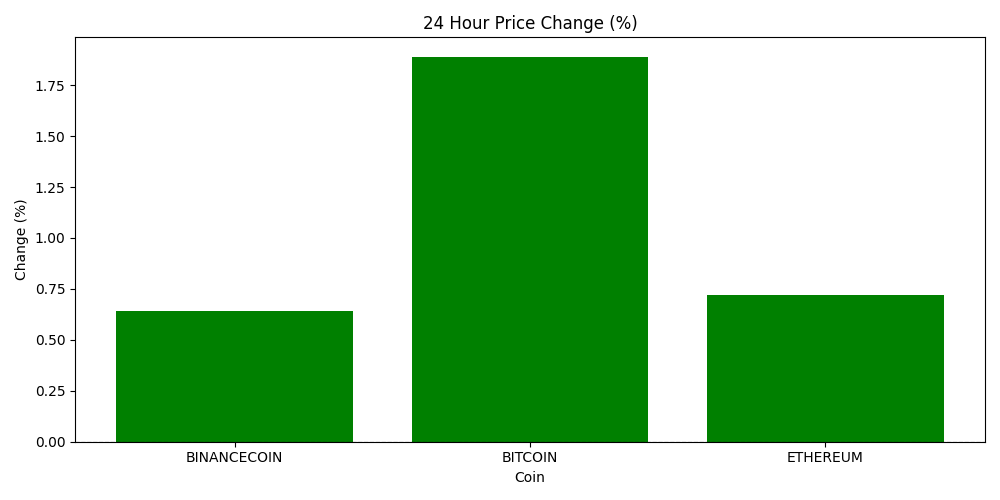
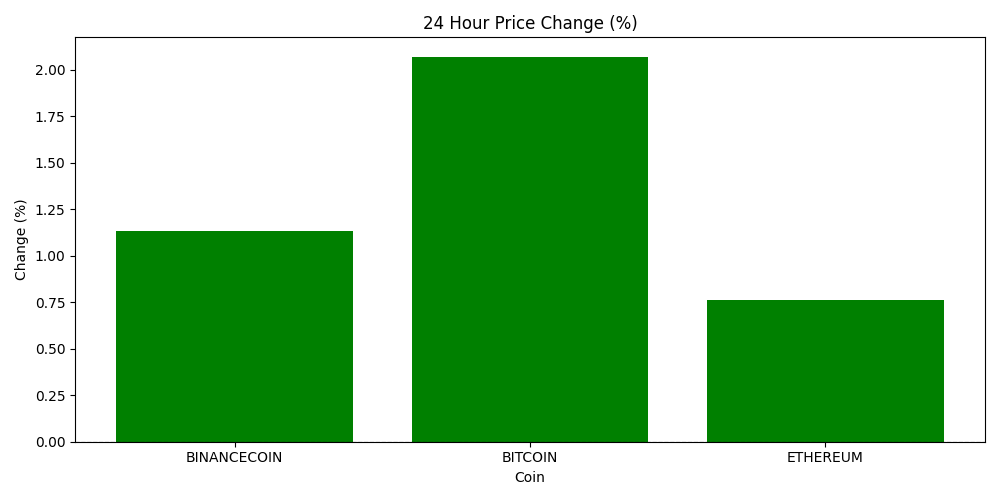
Add automation scripts for crypto and news sentiment

diff --git a/financial-news-sentiment/auto_sentiment.py b/financial-news-sentiment/auto_sentiment.py
@@ -1,0 +1,55 @@
+import schedule
+import time
+import pandas as pd
+import nltk
+from nltk.sentiment.vader import SentimentIntensityAnalyzer
+import sqlite3
+from newsapi import NewsApiClient
+from dotenv import load_dotenv
+import os
+from datetime import datetime
+
+load_dotenv(dotenv_path=".env")
+newsapi = NewsApiClient(api_key=os.getenv("NEWS_API_KEY"))
+nltk.download("vader_lexicon", quiet=True)
+sia = SentimentIntensityAnalyzer()
+
+def analyze_news():
+    print(f"\nFetching news at {datetime.now().strftime('%H:%M:%S')}")
+    
+    response = newsapi.get_everything(
+        q="stock market OR Dow Jones OR nasdaq OR trading",
+        language="en",
+        sort_by="publishedAt",
+        page_size=10
+    )
+
+    headlines = []
+    for article in response["articles"]:
+        score = sia.polarity_scores(article["title"])["compound"]
+        headlines.append({
+            "timestamp": datetime.now().strftime("%Y-%m-%d %H:%M:%S"),
+            "headline": article["title"],
+            "source": article["source"]["name"],
+            "score": round(score, 4),
+            "sentiment": "Positive" if score > 0.05 else "Negative" if score < -0.05 else "Neutral"
+        })
+
+    df = pd.DataFrame(headlines)
+    print(df[["headline", "sentiment", "score"]])
+
+    conn = sqlite3.connect("financial-news-sentiment/sentiment.db")
+    df.to_sql("headlines", conn, if_exists="append", index=False)
+    conn.close()
+    print("Sentiment data saved!")
+
+# Run immediately
+analyze_news()
+
+# Then every 30 minutes
+schedule.every(30).minutes.do(analyze_news)
+
+print("\nNews automation running... Press Ctrl+C to stop")
+while True:
+    schedule.run_pending()
+    time.sleep(1)

diff --git a/crypto-price-tracker/auto_crypto.py b/crypto-price-tracker/auto_crypto.py
@@ -1,0 +1,48 @@
+import schedule
+import time
+from pycoingecko import CoinGeckoAPI
+import pandas as pd
+import sqlite3
+from datetime import datetime
+
+cg = CoinGeckoAPI()
+
+def track_prices():
+    print(f"\nRunning price check at {datetime.now().strftime('%H:%M:%S')}")
+    
+    coins = ["bitcoin", "ethereum", "binancecoin"]
+    prices = cg.get_price(
+        ids=coins,
+        vs_currencies="usd",
+        include_24hr_change=True
+    )
+
+    records = []
+    for coin, data in prices.items():
+        records.append({
+            "timestamp": datetime.now().strftime("%Y-%m-%d %H:%M:%S"),
+            "coin": coin.upper(),
+            "price_usd": data["usd"],
+            "change_24h": round(data["usd_24h_change"], 2)
+        })
+
+    df = pd.DataFrame(records)
+    print(df[["coin", "price_usd", "change_24h"]])
+
+    # Save to database
+    conn = sqlite3.connect("crypto-price-tracker/crypto.db")
+    df.to_sql("prices", conn, if_exists="append", index=False)
+    conn.close()
+    print("Prices saved!")
+
+# Run immediately once
+track_prices()
+
+# Then run every 60 seconds
+schedule.every(60).seconds.do(track_prices)
+
+print("\nAutomation running... Press Ctrl+C to stop")
+while True:
+    schedule.run_pending()
+    time.sleep(1)
+    
